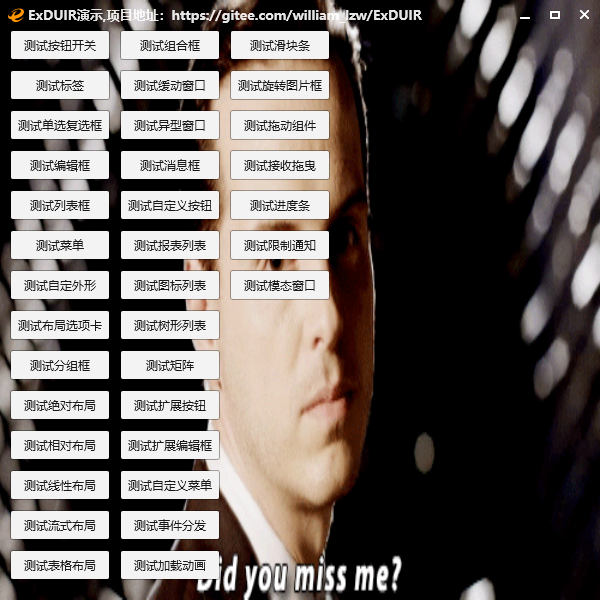
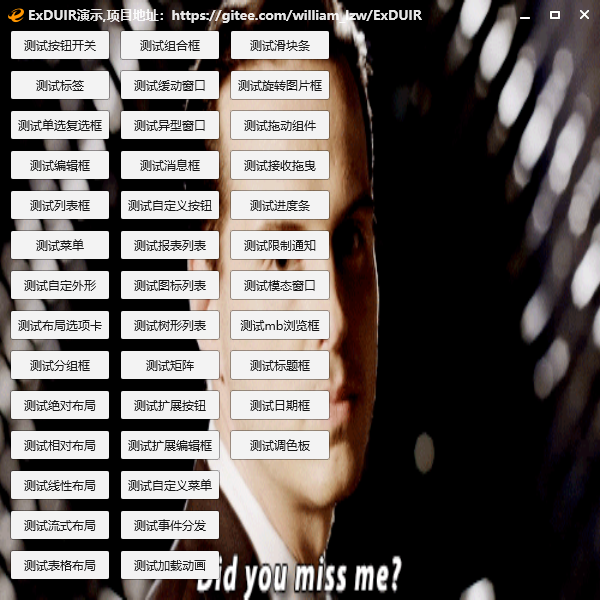
commit

diff --git a/msvc/test/test_obj.cpp b/msvc/test/test_obj.cpp
@@ -1275,15 +1275,12 @@ void test_ani(HWND hWnd)
 
 LRESULT CALLBACK OnCustomRedrawWndMsgProc(HWND hWnd, HEXDUI hExDui, INT uMsg, WPARAM wParam, LPARAM lParam, LRESULT* lpResult)
 {
-	if (uMsg == WM_ERASEBKGND) //wParam画布句柄
+	if (uMsg == WM_ERASEBKGND) //wParam画布句柄, LOWORD(lParam)为宽度,HIWORD(lParam)为高度
 	{
-		RECT rc{ 0 };
-		GetWindowRect(hWnd, &rc);
-		OffsetRect(&rc, -rc.left, -rc.top);
 		_canvas_setantialias(wParam, TRUE);
 		_canvas_clear(wParam, 0);
 		HEXBRUSH hBrush = _brush_create(ExRGB2ARGB(16711680, 150));
-		_canvas_fillellipse(wParam, hBrush, rc.right / 2, rc.bottom / 2, rc.right / 2 - 2, rc.bottom / 2 - 2);
+		_canvas_fillellipse(wParam, hBrush, LOWORD(lParam) / 2, HIWORD(lParam) / 2, LOWORD(lParam) / 2 - 2, HIWORD(lParam) / 2 - 2);
 		_brush_destroy(hBrush);
 		*lpResult = 1;
 		return 1;
@@ -2128,23 +2125,22 @@ LRESULT CALLBACK OnMenuWndMsgProc(HWND hWnd, HEXDUI hExDUI, INT uMsg, WPARAM wPa
 			hObjfind = Ex_ObjGetObj(hObjfind, GW_HWNDNEXT);
 		}
 	}
-	else if (uMsg == WM_ERASEBKGND)
+	else if (uMsg == WM_ERASEBKGND) //wParam画布句柄, LOWORD(lParam)为宽度,HIWORD(lParam)为高度
 	{
 		RECT rc{ 0 };
 		HDC dc = GetDC(NULL);
 		FLOAT dpix = (FLOAT)GetDeviceCaps(dc, 88) / 96;
-		GetWindowRect(hWnd, &rc);
 		_canvas_clear(wParam, 0);
 		HEXIMAGE hImg;
 		if (GetPropW(hWnd, L"IsMainMenu") != 0)
 		{
 			_img_createfromfile(L"custommenu/Main.png", &hImg);
-			_canvas_drawimagefromgrid(wParam, hImg, 0, 0, rc.right - rc.left - Ex_Scale(5), rc.bottom - rc.top - Ex_Scale(5), 0, 0, 68, 68, 46, 42, 13, 12, 0, 230);
+			_canvas_drawimagefromgrid(wParam, hImg, 0, 0, LOWORD(lParam), HIWORD(lParam), 0, 0, 68, 68, 46, 42, 13, 12, 0, 230);
 		}
 		else
 		{
 			_img_createfromfile(L"custommenu/Sub.png", &hImg);
-			_canvas_drawimagefromgrid(wParam, hImg, 0, 0, rc.right - rc.left - Ex_Scale(5), rc.bottom - rc.top - Ex_Scale(5), 0, 0, 24, 24, 8, 9, 10, 10, 0, 230);
+			_canvas_drawimagefromgrid(wParam, hImg, 0, 0, LOWORD(lParam), HIWORD(lParam), 0, 0, 24, 24, 8, 9, 10, 10, 0, 230);
 		}
 		_img_destroy(hImg);
 		*lpResult = 1;
@@ -2538,7 +2534,7 @@ LRESULT CALLBACK OnNchitTestButtonMsgProc(HWND hWnd, HEXOBJ hObj, INT uMsg, WPAR
 			return HTTRANSPARENT;
 		}
 	}
-	else if (uMsg == WM_ERASEBKGND)
+	else if (uMsg == WM_ERASEBKGND) //wParam画布句柄
 	{
 		RECT rc{ 0 };
 		Ex_ObjGetRect(hObj, &rc);
@@ -2648,7 +2644,7 @@ LRESULT CALLBACK OnPaletteButtonEvent(HEXOBJ hObj, INT nID, INT nCode, WPARAM wP
 
 void test_palette(HWND hParent)
 {
-	HWND hWnd_palette = Ex_WndCreate(hParent, L"Ex_DirectUI", L"测试调色板", 0, 0, 400, 200, 0, 0);
+	HWND hWnd_palette = Ex_WndCreate(hParent, L"Ex_DirectUI", L"测试调色板", 0, 0, 300, 300, 0, 0);
 	HEXDUI hExDui_palette = Ex_DUIBindWindowEx(hWnd_palette, 0, EWS_NOINHERITBKG | EWS_MOVEABLE | EWS_CENTERWINDOW | EWS_NOSHADOW | EWS_BUTTON_CLOSE | EWS_TITLE | EWS_HASICON, 0, 0);
 	Ex_DUISetLong(hExDui_palette, EWL_CRBKG, ExARGB(150, 150, 150, 255));
 	HEXOBJ hObj = Ex_ObjCreate(L"Palette", 0, -1, 50, 80, 100, 30, hExDui_palette);
@@ -2668,11 +2664,11 @@ LRESULT CALLBACK OnDateBoxButtonEvent(HEXOBJ hObj, INT nID, INT nCode, WPARAM wP
 
 void test_datebox(HWND hParent) 
 {
-	HWND hWnd_datebox = Ex_WndCreate(hParent, L"Ex_DirectUI", L"测试日期框", 0, 0, 400, 200, 0, 0);
+	HWND hWnd_datebox = Ex_WndCreate(hParent, L"Ex_DirectUI", L"测试日期框", 0, 0, 250, 200, 0, 0);
 	HEXDUI hExDui_datebox = Ex_DUIBindWindowEx(hWnd_datebox, 0, EWS_NOINHERITBKG | EWS_MOVEABLE | EWS_CENTERWINDOW | EWS_NOSHADOW | EWS_BUTTON_CLOSE | EWS_TITLE | EWS_HASICON, 0, 0);
 	Ex_DUISetLong(hExDui_datebox, EWL_CRBKG, ExARGB(150, 150, 150, 255));
 
-	HEXOBJ hObj = Ex_ObjCreate(L"DateBox", 0, -1, 160, 80, 150, 30, hExDui_datebox);
+	HEXOBJ hObj = Ex_ObjCreate(L"DateBox", 0, -1, 50, 80, 150, 30, hExDui_datebox);
 	Ex_ObjSetColor(hObj, COLOR_EX_BACKGROUND, -1, FALSE);
 	Ex_ObjSetColor(hObj, COLOR_EX_TEXT_NORMAL, ExRGB2ARGB(16711680, 255), TRUE);
 	EX_DATETIME dt;

diff --git a/src/Class_DateBox_ex.cpp b/src/Class_DateBox_ex.cpp
@@ -193,7 +193,6 @@ LRESULT CALLBACK _datebox_proc(HWND hWnd, HEXOBJ hObj, INT uMsg, WPARAM wParam, 
 			pOwner->Mon = ptm.tm_mon + 1;
 			pOwner->Mday = ptm.tm_mday;
 			pOwner->Wday = ptm.tm_wday == 0 ? 7 : ptm.tm_wday;
-			//pOwner->Format = L"%Y-%m-%d %a";  //%Y-%m-%d %H:%M:%S %a
 			pOwner->nCalendar = 1;
 			pOwner->nSohwType = 0;
 			pOwner->Items = Ex_MemAlloc(42 * (20 + sizeof(size_t)));
@@ -207,7 +206,17 @@ LRESULT CALLBACK _datebox_proc(HWND hWnd, HEXOBJ hObj, INT uMsg, WPARAM wParam, 
 			datebox_s* pOwner = (datebox_s*)_obj_pOwner(pObj);
 			_font_destroy(pOwner->hFont);
 			LPVOID pOld = pOwner->Items;
-			if (pOld != 0) {
+			if (pOld != 0) 
+			{
+				for (int i = 0; i < 42; i++)
+				{
+					LONG_PTR offset = i * (20 + sizeof(size_t));
+					LPVOID Calendar = (LPVOID)__get(pOld, offset + 20);
+					if (Calendar)
+					{
+						Ex_MemFree(Calendar);
+					}
+				}
 				Ex_MemFree(pOld);
 			}
 			_struct_destroyfromaddr(pObj, offsetof(obj_s, dwOwnerData_));
@@ -293,16 +302,14 @@ LRESULT CALLBACK _datebox_proc(HWND hWnd, HEXOBJ hObj, INT uMsg, WPARAM wParam, 
 LRESULT CALLBACK _datebox_onwndmsgproc(HWND hWnd, HEXDUI hExDUI, INT uMsg, WPARAM wParam, LPARAM lParam, LRESULT* lpResult) {
 	if (uMsg == WM_DESTROY) {
 		datebox_s* pOwner = (datebox_s*)Ex_DUIGetLong(hExDUI, EWL_LPARAM);
-
 		pOwner->nProcessTime = GetTickCount64();
 	}
-	else if (uMsg == WM_ERASEBKGND) {
+	else if (uMsg == WM_ERASEBKGND) //wParam画布句柄, LOWORD(lParam)为宽度,HIWORD(lParam)为高度
+	{
 		datebox_s* pOwner = (datebox_s*)Ex_DUIGetLong(hExDUI, EWL_LPARAM);
 		_canvas_clear(wParam, -1);
 		int offset = Ex_Scale(26);
-		RECT rc;
-		GetWindowRect(hWnd, &rc);
-		_canvas_drawtext(wParam, pOwner->hFont, ExRGB2ARGB(16711680, 255), (LPCWSTR)Ex_ObjGetLong(pOwner->hObj, EOL_LPWZTITLE), -1, DT_LEFT | DT_VCENTER, Ex_Scale(18), rc.bottom - rc.top - offset, Ex_Scale(220), rc.bottom - rc.top - offset + Ex_Scale(22));
+		_canvas_drawtext(wParam, pOwner->hFont, ExRGB2ARGB(16711680, 255), (LPCWSTR)Ex_ObjGetLong(pOwner->hObj, EOL_LPWZTITLE), -1, DT_LEFT | DT_VCENTER, Ex_Scale(18), HIWORD(lParam) - offset, Ex_Scale(220), HIWORD(lParam) - offset + Ex_Scale(22));
 		*lpResult = 1;
 		return 1;
 	}
@@ -408,7 +415,8 @@ LRESULT CALLBACK _datebox_onlistproc(HWND hWnd, HEXOBJ hObj, INT uMsg, WPARAM wP
 			}
 		}
 	}
-	else if (uMsg == WM_ERASEBKGND) {
+	else if (uMsg == WM_ERASEBKGND) 
+	{
 		if (__get((LPVOID)lParam, 0) == wParam) {
 			datebox_s* pOwner = (datebox_s*)Ex_ObjGetLong(hObj, EOL_LPARAM);
 			if (pOwner->nSohwType > 0) {

diff --git a/src/Class_Palette_ex.cpp b/src/Class_Palette_ex.cpp
@@ -58,9 +58,9 @@ LRESULT CALLBACK _palette_proc(HWND hWnd, HEXOBJ hObj, INT uMsg, WPARAM wParam, 
 					//创建一个底部标签，防止点击空白标题处，窗口会关闭。
 					HEXOBJ hObj_Static = Ex_ObjCreateEx(EOS_EX_FOCUSABLE, L"Static", L"", -1, 0, 0, 400, 400, hExBox, 0, -1, 0, 0, 0);
 
-					SetWindowPos(hWndBox, 0, lpRect.left, lpRect.top, Ex_Scale(181), Ex_Scale(160), SWP_NOZORDER | SWP_NOACTIVATE);
+					SetWindowPos(hWndBox, 0, lpRect.left, lpRect.top, Ex_Scale(180), Ex_Scale(180), SWP_NOZORDER | SWP_NOACTIVATE);
 
-					HEXOBJ hObj = Ex_ObjCreateEx(EOS_EX_FOCUSABLE, L"listview", NULL, EOS_VISIBLE | ELVS_VERTICALLIST, 8, 10, 170, 120, hObj_Static, 76601, -1, 0, 0, _palette_onlistproc);
+					HEXOBJ hObj = Ex_ObjCreateEx(EOS_EX_FOCUSABLE, L"listview", NULL, EOS_VISIBLE | ELVS_VERTICALLIST, 15, 15, 160, 120, hObj_Static, 76601, -1, 0, 0, _palette_onlistproc);
 					Ex_ObjSendMessage(hObj, LVM_SETITEMCOUNT, 32, 0);
 
 					WCHAR lpTitle[12];
@@ -69,7 +69,7 @@ LRESULT CALLBACK _palette_proc(HWND hWnd, HEXOBJ hObj, INT uMsg, WPARAM wParam, 
 					INT G = ExGetG(nColor);
 					INT B = ExGetB(nColor);
 					swprintf_s(lpTitle, L"%X %X %X", R, G, B);
-					Ex_ObjCreateEx(EOS_EX_FOCUSABLE | EOS_EX_COMPOSITED, L"edit", lpTitle, EOS_VISIBLE, 8, 128, 160, 25, hObj_Static, 76602, DT_SINGLELINE, 0, 0, _palette_oneditproc);
+					Ex_ObjCreateEx(EOS_EX_FOCUSABLE | EOS_EX_COMPOSITED, L"edit", lpTitle, EOS_VISIBLE, 15, 150, 150, 25, hObj_Static, 76602, DT_SINGLELINE, 0, 0, _palette_oneditproc);
 					Ex_DUIShowWindow(hExBox, SW_SHOWNOACTIVATE, 0, 0, 0);
 				}
 			}
@@ -138,8 +138,8 @@ LRESULT CALLBACK _palette_onlistproc(HWND hWnd, HEXOBJ hObj, INT uMsg, WPARAM wP
 			{
 				__set_int((LPVOID)ni.lParam, 0, Ex_Scale(16));//改变项目宽度
 				__set_int((LPVOID)ni.lParam, 4, Ex_Scale(16));//改变项目高度
-				__set_int((LPVOID)ni.lParam, 8, 10);//改变项目间隔宽度
-				__set_int((LPVOID)ni.lParam, 12, 10);//改变项目间隔高度
+				__set_int((LPVOID)ni.lParam, 8, Ex_Scale(10));//改变项目间隔宽度
+				__set_int((LPVOID)ni.lParam, 12, Ex_Scale(10));//改变项目间隔高度
 				nIndex = 0;
 				*lpResult = 1;
 				return 1;

diff --git a/src/Class_MiniBlink_ex.cpp b/src/Class_MiniBlink_ex.cpp
@@ -6,7 +6,7 @@ void _miniblink_register()
 	Ex_ObjRegister(L"mbBrowser", EOS_VISIBLE, EOS_EX_TABSTOP | EOS_EX_FOCUSABLE, -1, 2 * sizeof(SIZE_T), 0, 0, _miniblink_proc);
 }
 
-void WKE_CALL_TYPE _miniblink_OnPaint(wkeWebView hWebView, LPVOID hObj,const HDC hDC, INT x, INT y, INT cx, INT cy)
+void WKE_CALL_TYPE _miniblink_onpaint(wkeWebView hWebView, LPVOID hObj,const HDC hDC, INT x, INT y, INT cx, INT cy)
 {
 	cx = cx + x;
 	cy = cy + y;
@@ -73,7 +73,7 @@ DWORD _miniblink_geteventflags(WPARAM wParam, BOOL fKeyEvent)
 HCURSOR _miniblink_setcursor(HEXOBJ hObj, DWORD dwCursorType)
 {
 	std::vector<INT> arrCurs = { 0, 32512, 1, 32515, 2, 32649, 3, 32513, 4, 32514, 5, 32651, 6, 32644, 7, 32645, 8, 32643, 9, 32642, 10, 32645, 11, 32642, 12, 32643, 13, 32644, 14, 32645, 15, 32644, 16, 32643, 17, 32642, 18, 32644, 19, 32645, 20, 32640, 21, 32644, 22, 32644, 23, 32643, 24, 32642, 25, 32645, 26, 32642, 27, 32643, 28, 32644, 29, 32646, 30, 32513, 31, 32512, 32, 32512, 33, 32512, 34, 32650, 35, 32648, 36, 32512, 37, -1, 38, 32648, 39, 32515, 40, 32646, 41, 32512, 42, 32512, 43, 32512 };
-	LPCWSTR CursorName;
+	LPCWSTR CursorName = NULL;
 	for (int i = 0; i < arrCurs.size() / 2; i++)
 	{
 		if (dwCursorType = arrCurs[i * 2])
@@ -107,8 +107,8 @@ LRESULT CALLBACK _miniblink_proc(HWND hWnd, HEXOBJ hObj, INT uMsg, WPARAM wParam
 		if (hWebView)
 		{
 			Ex_ObjSetLong(hObj, MBBL_VIEW, (LONG_PTR)hWebView);
-			Ex_ObjSetLong(hObj, MBBL_ONPAINT, (LONG_PTR)_miniblink_OnPaint);
-			wkeOnPaintUpdated(hWebView, _miniblink_OnPaint, (LPVOID)hObj);
+			Ex_ObjSetLong(hObj, MBBL_ONPAINT, (LONG_PTR)_miniblink_onpaint);
+			wkeOnPaintUpdated(hWebView, _miniblink_onpaint, (LPVOID)hObj);
 		}
 	}
 	else if (uMsg == WM_DESTROY)

diff --git a/include/Class_MiniBlink_ex.h b/include/Class_MiniBlink_ex.h
@@ -5,7 +5,7 @@
 
 void _miniblink_register();
 LRESULT CALLBACK _miniblink_proc(HWND hWnd, HEXOBJ hObj, INT uMsg, WPARAM wParam, LPARAM lParam);
-void WKE_CALL_TYPE _miniblink_OnPaint(wkeWebView hWebView, LPVOID hObj,const HDC hDC, INT x, INT y, INT cx, INT cy);
+void WKE_CALL_TYPE _miniblink_onpaint(wkeWebView hWebView, LPVOID hObj,const HDC hDC, INT x, INT y, INT cx, INT cy);
 LRESULT _miniblink_paint(HEXOBJ hObj, wkeWebView hWebView);
 DWORD _miniblink_geteventflags(WPARAM wParam, BOOL fKeyEvent);
 HCURSOR _miniblink_setcursor(HEXOBJ hObj, DWORD dwCursorType);

diff --git a/src/Wnd_ex.cpp b/src/Wnd_ex.cpp
@@ -1965,7 +1965,7 @@ void _wnd_paint_bkg(HWND hWnd, wnd_s *pWnd)
         _canvas_setantialias(cvBkg, TRUE);
         _canvas_setimageantialias(cvBkg, TRUE);
         LRESULT result = 0;
-        if (!pWnd->pfnMsgProc_ || !pWnd->pfnMsgProc_(hWnd, pWnd->hexdui_, WM_ERASEBKGND, cvBkg, pWnd->hexdui_, &result))
+        if (!pWnd->pfnMsgProc_ || !pWnd->pfnMsgProc_(hWnd, pWnd->hexdui_, WM_ERASEBKGND, cvBkg, MAKELONG(pWnd->width_, pWnd->height_), &result))
         {
             if (!((pWnd->dwStyle_ & EWS_NOINHERITBKG) == EWS_NOINHERITBKG))
             {

diff --git a/README.md b/README.md
@@ -30,7 +30,7 @@ Windows平台轻量DirectUI框架。
 * 仿Windows消息机制，通过发送消息，分发通知给组件，兼容原生Windows消息和常量。win32 api写法，比类写法扩展性更灵活。
 * 调用方式采用Win32风格API方式，支持生成lib静态库和dll动态库。生成的动态链接库支持被其它语言如python、java、go、dephi、C#、VB、易语言等调用。
 * 扩展组件自由灵活，引擎处理底层逻辑。用户只需编写绘制代码，不需要考虑复杂的消息处理。
-* 目前支持组件有按钮、编辑框、富文本编辑框、列表框、报表列表、分组框、组合框、菜单、树形框、滑块、单选框、选择框、选项卡、加载动画框、旋转图片框、页面、图片框、消息框、图标列表、miniblink浏览框、工具条、状态条，可以在这些组件基础上超类化扩展组件。
+* 目前支持组件有按钮、开关、单选框、选择框、编辑框、富文本编辑框、列表框、报表列表、分组框、组合框、菜单、树形框、滑块、单选框、选择框、选项卡、加载动画框、旋转图片框、页面、图片框、消息框、图标列表、列表按钮、miniblink浏览框、工具条、状态条、日期框、调色板、标题框，可以在这些组件基础上超类化扩展组件。
 * 支持布局，布局可以在窗口尺寸改变情况下自动更新组件位置。目前支持的布局有绝对布局，相对布局、线性布局、流式布局、表格布局。用户可以扩展布局。
 * 支持APNG、GIF格式图片自动播放动画，支持图片格式PNG、APNG、JPEG、BMP、GIF、WEBP。窗口或组件都可以用以上格式图片做背景图。
 * 支持34种缓动特效，用户可以自由编写窗口缓动或组件缓动特效。用户可以扩展缓动算法。
@@ -38,6 +38,7 @@ Windows平台轻量DirectUI框架。
 * 编辑框支持富文本，支持加载RTF格式文档。
 * 窗口或组件支持接收拖曳文件或文本。
 * 支持模态窗口。
+* 支持限制区域消息通知。
 
 ## Demo
 ### demo_all:  
